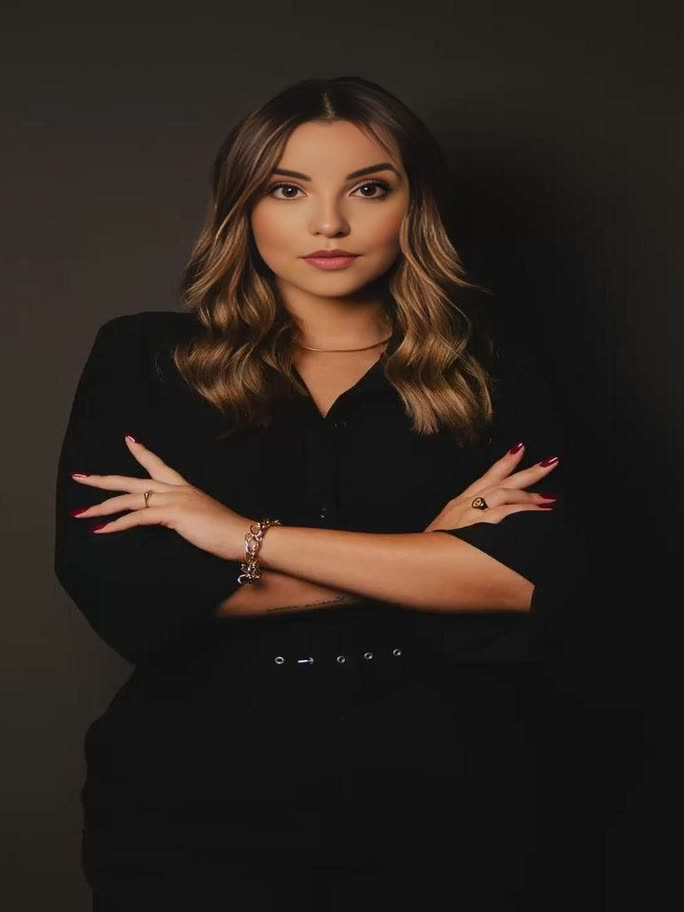
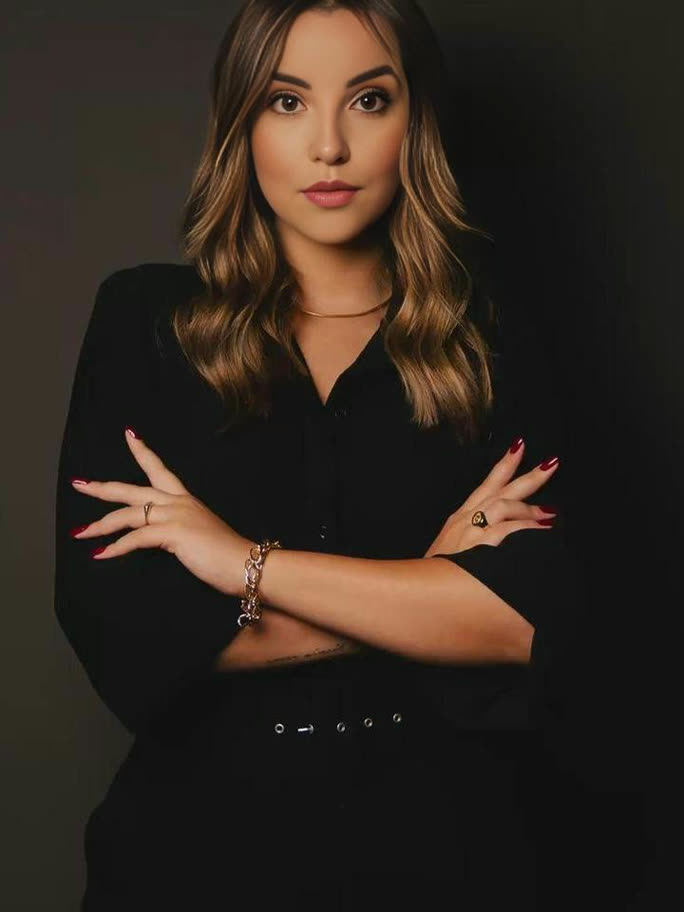
Team section: owl.carousel (4/page desktop, 2/page mobile, autoplay) + fix distorted photos
- Replaced the custom CSS scroll-snap single-item mobile carousel with
  owl.carousel, matching the pattern used elsewhere on the homepage
  (testimonials, services, videos). 4 items/page on desktop with
  autoplay, 2 items/page on mobile. Removed the now-unused custom nav
  arrows JS/CSS.
- Fixed 6 team photos (Hasna, Rokya, Siham, Marwa, Salma, Anas) that
  had been stretched out of proportion by an earlier resize pass that
  forced an exact width/height without preserving aspect ratio.
  Re-cropped to 3:4 (centered) before resizing so faces render
  naturally instead of squished.

diff --git a/assets/css/main.css b/assets/css/main.css
@@ -512,7 +512,7 @@ header .lang-btn{font-size:.72rem;padding:0}
 
 /* TEAM */
 .team{padding:8rem 0;background:var(--bg)}
-.team-grid{display:grid;grid-template-columns:repeat(4,1fr);gap:1.5rem;margin-top:3rem}
+.team-grid{margin-top:3rem}
 .team-card{overflow:hidden}
 .team-thumb{position:relative;overflow:hidden;aspect-ratio:3/4;background:var(--bg3);border-radius:18px}
 .team-thumb img{width:100%;height:100%;object-fit:cover}
@@ -523,28 +523,6 @@ header .lang-btn{font-size:.72rem;padding:0}
 .team-info{padding:1rem 0}
 .team-name{font-weight:200;font-size:1.3rem;color:var(--txt)}
 .team-role{font-size:.63rem;letter-spacing:.16em;text-transform:uppercase;color:var(--gold);margin-top:.15rem}
-.team-nav{display:none}
-.team-nav .owl-prev, .team-nav .owl-next{
-	width: 50px;
-	height: 50px;
-	border: 1px solid var(--border);
-	background: none;
-	cursor: pointer;
-	display: flex;
-	align-items: center;
-	justify-content: center;
-	color: var(--txt2);
-	font-size: .78rem;
-	transition: all .3s;
-	border-radius: 50%;
-}
-@media(max-width:991px){.team-grid{grid-template-columns:repeat(2,1fr)}}
-@media(max-width:480px){
-  .team-grid{display:flex;grid-template-columns:none;gap:.8rem;overflow-x:auto;scroll-snap-type:x mandatory;-webkit-overflow-scrolling:touch;scrollbar-width:none;padding-bottom:.5rem}
-  .team-grid::-webkit-scrollbar{display:none}
-  .team-card{flex:0 0 100%;scroll-snap-align:center}
-  .team-nav{display:flex;justify-content:center;align-items:center;gap:1rem;margin-top:1.5rem}
-}
 
 /* INSIGHTS / DIGITAL EXPERT */
 .insights{padding:8rem 0;border-top:1px solid var(--border)}

diff --git a/components/com_frontpage/views/frontpage/list.php b/components/com_frontpage/views/frontpage/list.php
@@ -978,9 +978,9 @@ img,video{display:block;max-width:100%}
   <div class="container">
     <div class="sec-label rv"><?php echo $lang['HOME_TEAM_LABEL'][$_SESSION['lang']]; ?></div>
     <h2 class="sec-title rv d1"><?php echo $lang['HOME_TEAM_TITLE'][$_SESSION['lang']]; ?></h2>
-    <div class="team-grid" id="teamGrid">
+    <div id="owl-team" class="owl-carousel owl-theme team-grid">
 
-      <div class="team-card rv">
+      <div class="team-card">
         <div class="team-thumb">
           <img src="<?php echo $siteURL; ?>images/team/hamid.webp" alt="Hamid K">
           <div class="team-initials">MC</div>
@@ -993,7 +993,7 @@ img,video{display:block;max-width:100%}
         </div>
       </div>
 
-      <div class="team-card rv d1">
+      <div class="team-card">
         <div class="team-thumb">
           <img src="<?php echo $siteURL; ?>images/team/zak.webp" alt="Zakaria EL">
           <div class="team-initials">IF</div>
@@ -1006,7 +1006,7 @@ img,video{display:block;max-width:100%}
         </div>
       </div>
 
-      <div class="team-card rv d2">
+      <div class="team-card">
         <div class="team-thumb">
           <img src="<?php echo $siteURL; ?>images/team/youssef.webp" alt="Youssef F">
           <div class="team-initials">DO</div>
@@ -1018,7 +1018,7 @@ img,video{display:block;max-width:100%}
           <div class="team-role"><?php echo $lang['HOME_TEAM_ROLE_ART'][$_SESSION['lang']]; ?></div>
         </div>
       </div>
-      <div class="team-card rv d3">
+      <div class="team-card">
         <div class="team-thumb">
           <img src="<?php echo $siteURL; ?>images/team/khadija.webp" alt="Khadija T">
           <div class="team-initials">NS</div>
@@ -1031,7 +1031,7 @@ img,video{display:block;max-width:100%}
         </div>
       </div>
 
-      <div class="team-card rv d4">
+      <div class="team-card">
         <div class="team-thumb">
           <img src="<?php echo $siteURL; ?>images/team/hassna.webp" alt="Hasna">
           <div class="team-initials">RA</div>
@@ -1044,7 +1044,7 @@ img,video{display:block;max-width:100%}
         </div>
       </div>
 
-      <div class="team-card rv d4">
+      <div class="team-card">
         <div class="team-thumb">
           <img src="<?php echo $siteURL; ?>images/team/rokya.webp" alt="Rokya">
           <div class="team-initials">CO</div>
@@ -1057,7 +1057,7 @@ img,video{display:block;max-width:100%}
         </div>
       </div>
 
-      <div class="team-card rv d4">
+      <div class="team-card">
         <div class="team-thumb">
           <img src="<?php echo $siteURL; ?>images/team/siham.webp" alt="Siham">
           <div class="team-initials">CO</div>
@@ -1070,7 +1070,7 @@ img,video{display:block;max-width:100%}
         </div>
       </div>
 
-      <div class="team-card rv d4">
+      <div class="team-card">
         <div class="team-thumb">
           <img src="<?php echo $siteURL; ?>images/team/marwa.jpg" alt="Marwa">
           <div class="team-initials">CO</div>
@@ -1083,7 +1083,7 @@ img,video{display:block;max-width:100%}
         </div>
       </div>
 
-      <div class="team-card rv d4">
+      <div class="team-card">
         <div class="team-thumb">
           <img src="<?php echo $siteURL; ?>images/team/salma.webp" alt="Salma">
           <div class="team-initials">RM</div>
@@ -1096,7 +1096,7 @@ img,video{display:block;max-width:100%}
         </div>
       </div>
 
-      <div class="team-card rv d4">
+      <div class="team-card">
         <div class="team-thumb">
           <img src="<?php echo $siteURL; ?>images/team/anas.webp" alt="Anas">
           <div class="team-initials">DW</div>
@@ -1109,27 +1109,26 @@ img,video{display:block;max-width:100%}
         </div>
       </div>
     </div>
-
-    <div class="team-nav">
-      <button type="button" class="owl-prev" id="teamPrev" aria-label="<?php echo $lang['HOME_TEAM_PREV'][$_SESSION['lang']]; ?>"><i class="fa fa-arrow-left"></i></button>
-      <button type="button" class="owl-next" id="teamNext" aria-label="<?php echo $lang['HOME_TEAM_NEXT'][$_SESSION['lang']]; ?>"><i class="fa fa-arrow-right"></i></button>
-    </div>
   </div>
 </section>
 
 <script>
 document.addEventListener('DOMContentLoaded', function() {
-  var teamGrid = document.getElementById('teamGrid');
-  var teamPrev = document.getElementById('teamPrev');
-  var teamNext = document.getElementById('teamNext');
-  if (!teamGrid || !teamPrev || !teamNext) return;
-  function scrollTeamBy(dir) {
-    var card = teamGrid.querySelector('.team-card');
-    if (!card) return;
-    teamGrid.scrollBy({ left: dir * card.getBoundingClientRect().width, behavior: 'smooth' });
-  }
-  teamPrev.addEventListener('click', function() { scrollTeamBy(-1); });
-  teamNext.addEventListener('click', function() { scrollTeamBy(1); });
+  $("#owl-team").owlCarousel({
+    loop: true,
+    nav: true,
+    navText: ['<i class="fa fa-arrow-left"></i>', '<i class="fa fa-arrow-right"></i>'],
+    dots: true,
+    autoplay: true,
+    autoplayTimeout: 3500,
+    autoplayHoverPause: true,
+    smartSpeed: 800,
+    margin: 24,
+    responsive: {
+      0: { items: 2 },
+      768: { items: 4 }
+    }
+  });
 });
 </script>
 
